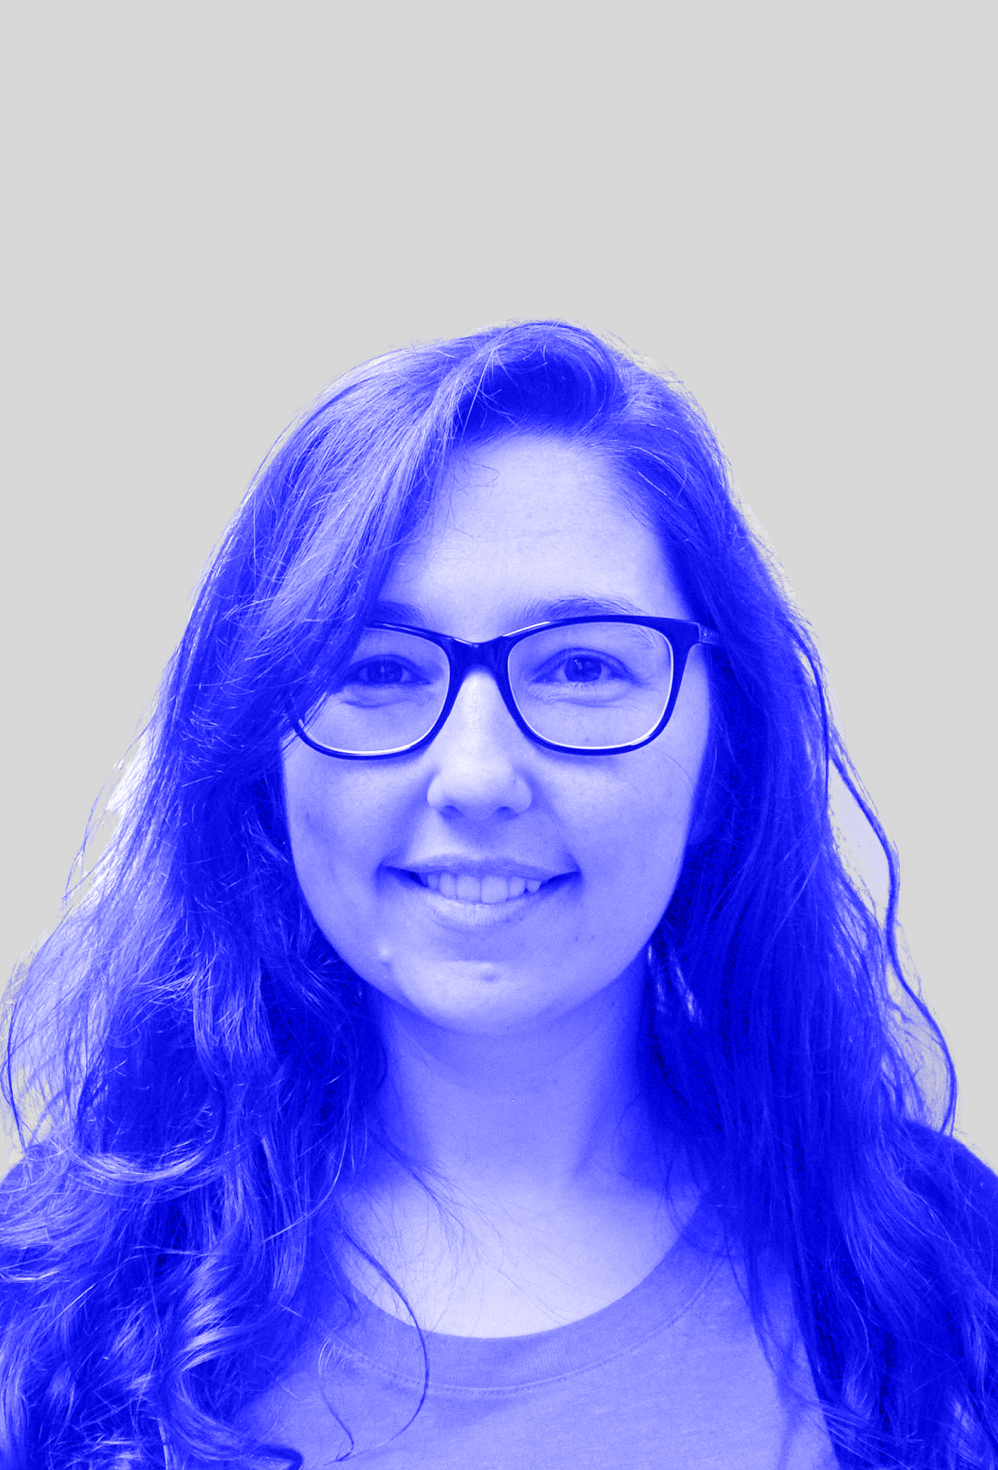
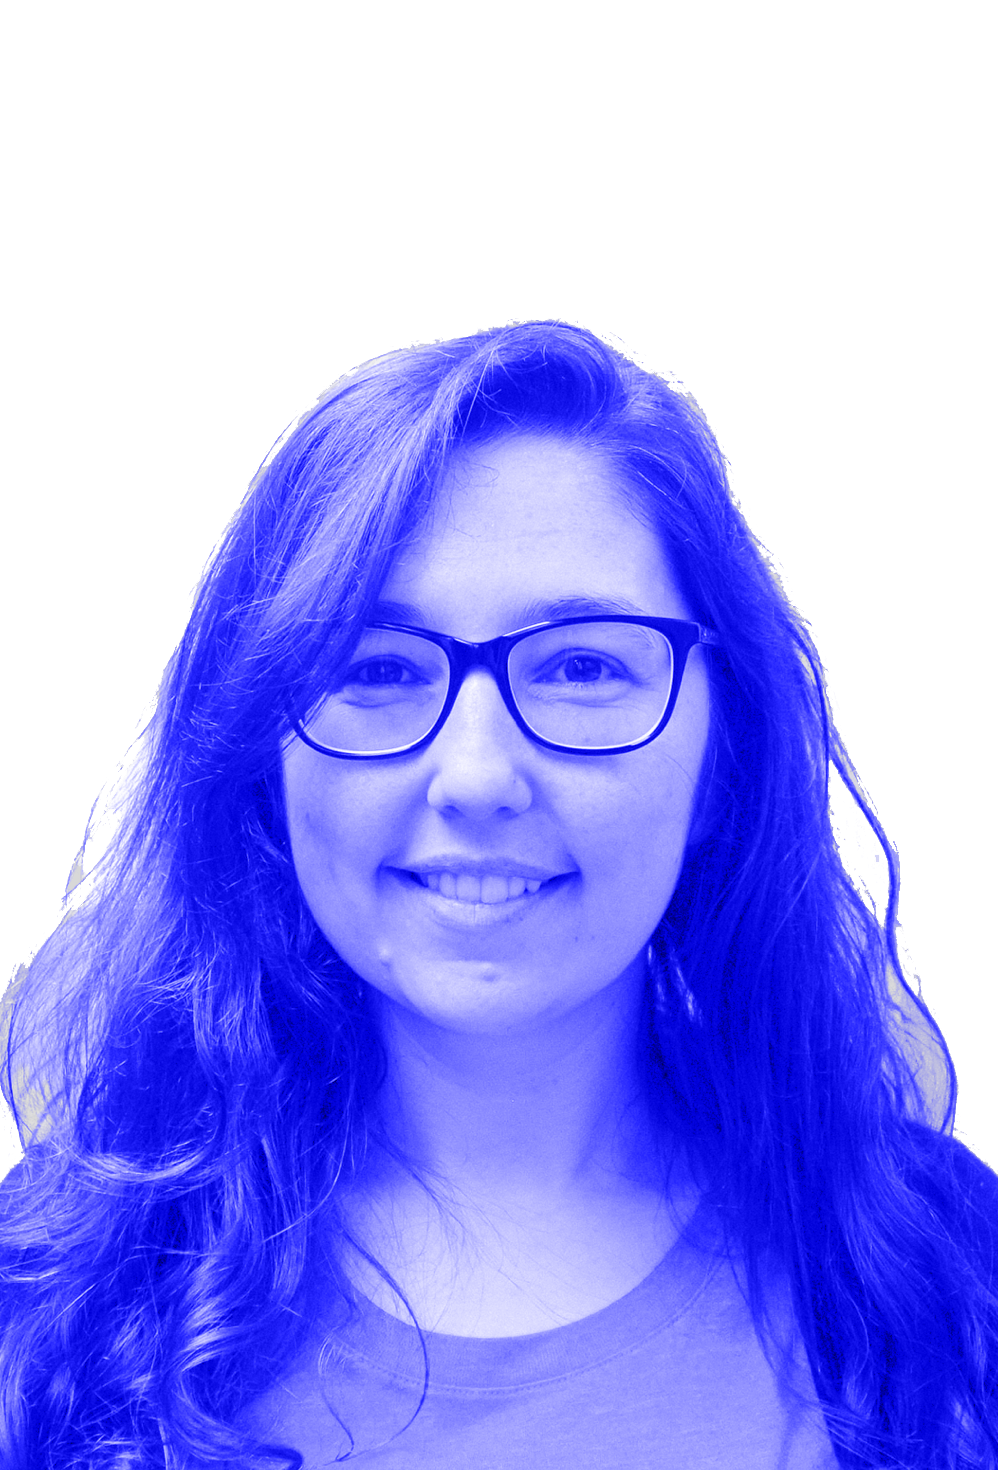
Add staff transparent blue photos

diff --git a/src/components/Card.js b/src/components/Card.js
@@ -19,6 +19,10 @@ import inesBlue from "../assets/portraits/ines_blue.png"
 import inesPlain from "../assets/portraits/ines_plain.png"
 import joeBlue from "../assets/portraits/joe_blue.png"
 import joePlain from "../assets/portraits/joe_plain.png"
+import yvonneBlue from "../assets/portraits/yvonne_blue.png"
+import yvonnePlain from "../assets/portraits/yvonne_plain.png"
+import rebeccaBlue from "../assets/portraits/rebecca_blue.png"
+import rebeccaPlain from "../assets/portraits/rebecca_plain.png"
 
 const Container = styled.div.attrs({
   className:
@@ -287,8 +291,8 @@ const Yvonne = () => (
     title="Operations and"
     title2=" international development"
     imgHeight="75%"
-    blueImg={fatimatBlue}
-    normalImg={fatimatPlain}
+    blueImg={yvonneBlue}
+    normalImg={yvonnePlain}
   />
 )
 
@@ -309,8 +313,8 @@ const Rebecca = () => (
     secondName="Radding"
     title="Strategy and communications"
     imgHeight="75%"
-    blueImg={fatimatBlue}
-    normalImg={fatimatPlain}
+    blueImg={rebeccaBlue}
+    normalImg={rebeccaPlain}
   />
 )
 
